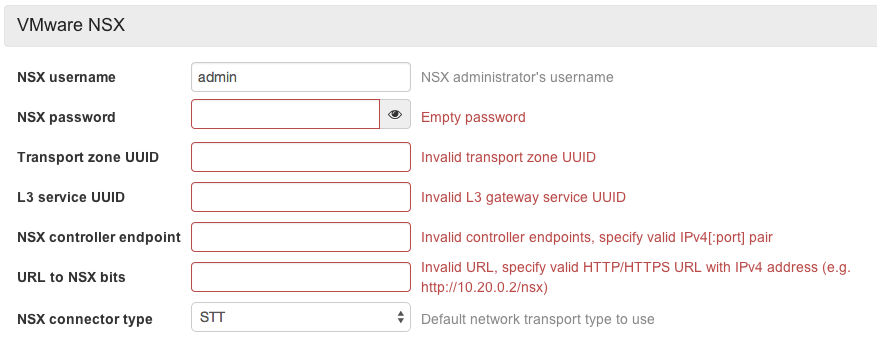
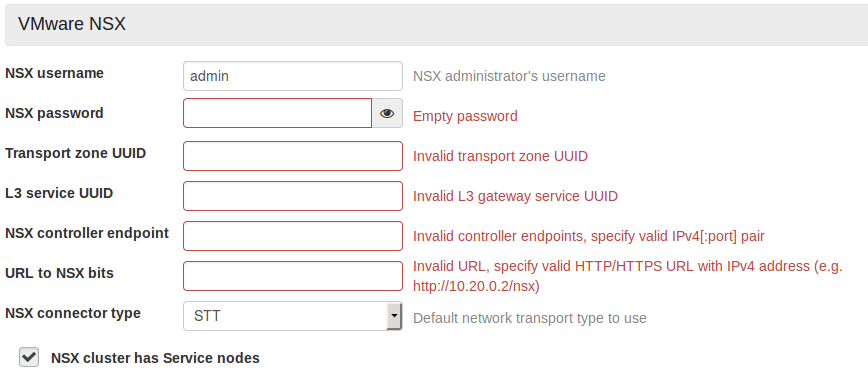
MOS can be used with NSX cluster that lacks Service nodes
- remove warning that says that NSX Service node is mandatory for
  Mirantis OpenStack
- add note about fact that NSX Service node is mandatory for high volume
  environments
- update screenshot with NSX settings block that shows new checkbox

Partial-bug: #1365043

diff --git a/pages/planning-guide/7000-nsx-plan.rst b/pages/planning-guide/7000-nsx-plan.rst
@@ -34,26 +34,23 @@ VMware NSX Installation
 Before installing Fuel and using it
 to create a Mirantis OpenStack environment
 that is integrated with VMware NSX,
-the VMware NSX installation must be up and running.
+the VMware NSX installation must be installed and running.
 Please check that you completed the following steps:
 
 
 * Install NSX Controller node
 * Install NSX Gateway node
 * Install NSX Manager node
-* Install NSX Service node
-
-.. note:: According to VMware documentation, an NSX cluster can operate
-          successfully without an NSX Service node, but its presence is
-          mandatory for deploying Mirantis OpenStack. Support of NSX clusters
-          without a Service node might appear in future versions of Fuel.
+* Install NSX Service node (you may skip this step if you are going to test
+  NSX cluster; Service nodes are mandatory for high volume traffic
+  environments)
 
 VMware NSX cluster configuration
 --------------------------------
 
 * Configure NSX Controller
 
-        * Assign IP address to NSX controller.  If the controller is going
+        * Assign an IP address to the NSX controller.  If the controller is going
           to be placed in any of the OpenStack :ref:`logical
           networks<logical-networks-arch>` (Public, Management, Storage),
           you must assign an IP address that does not overlap
